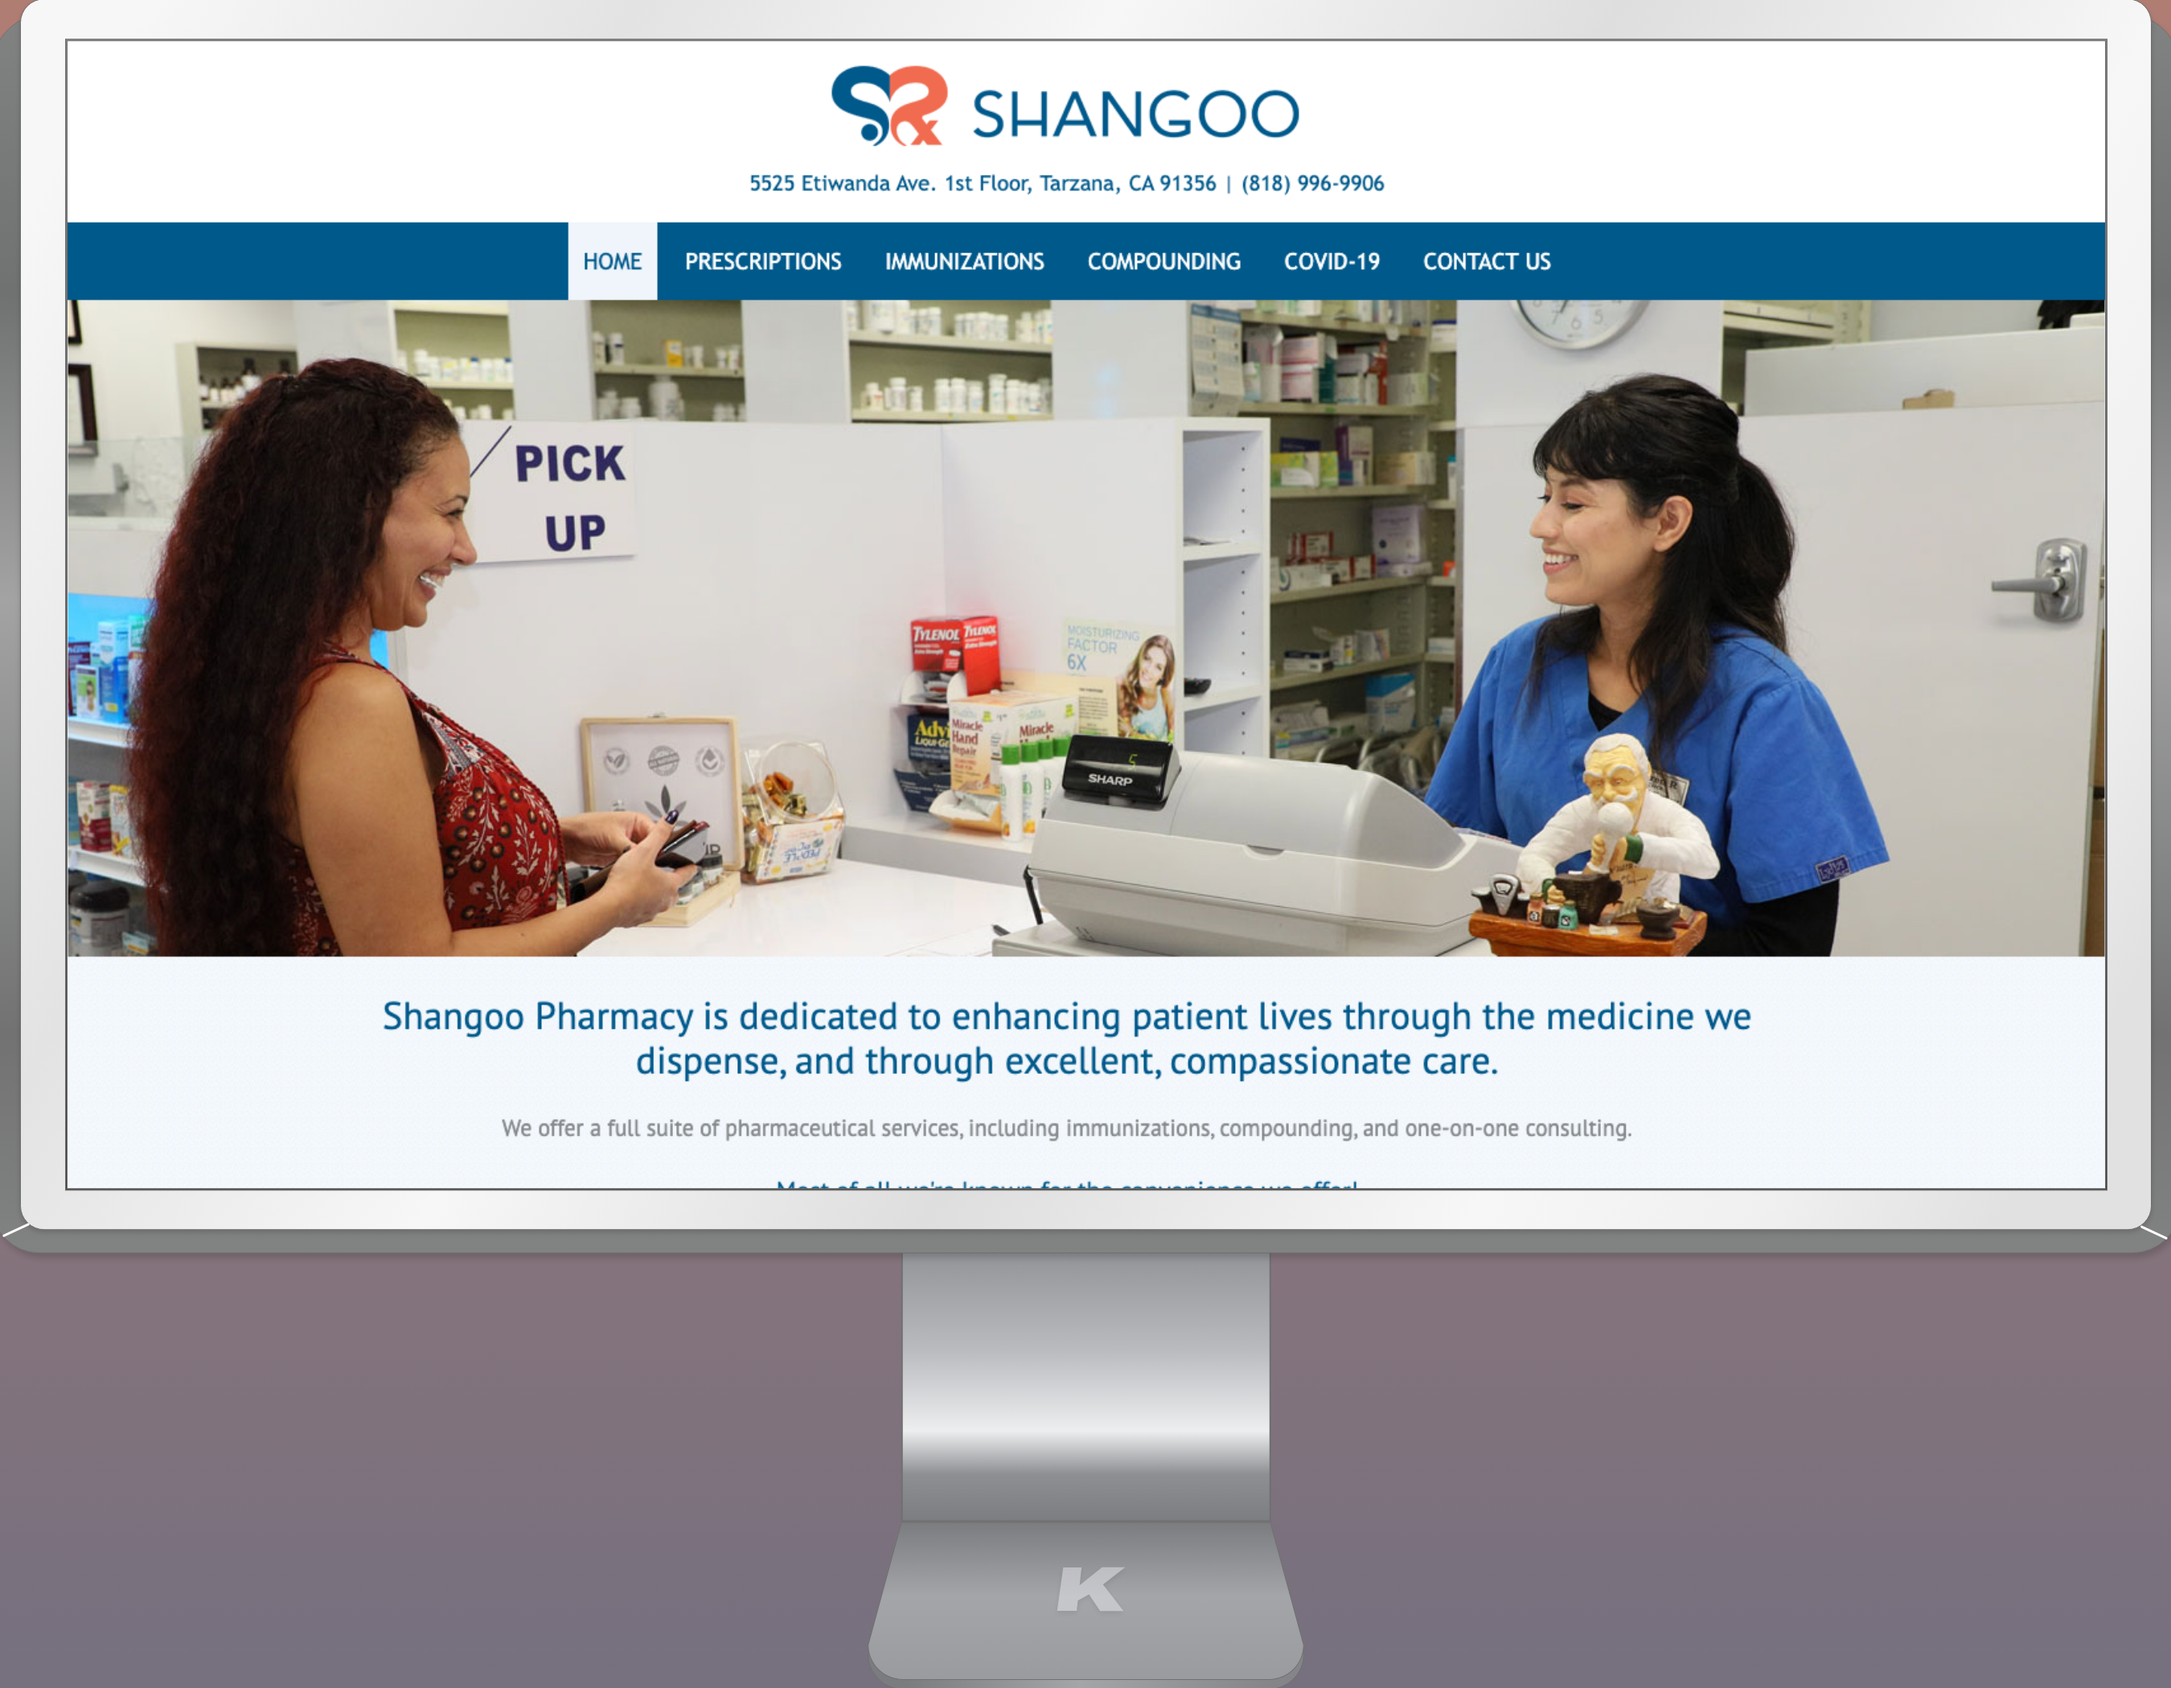
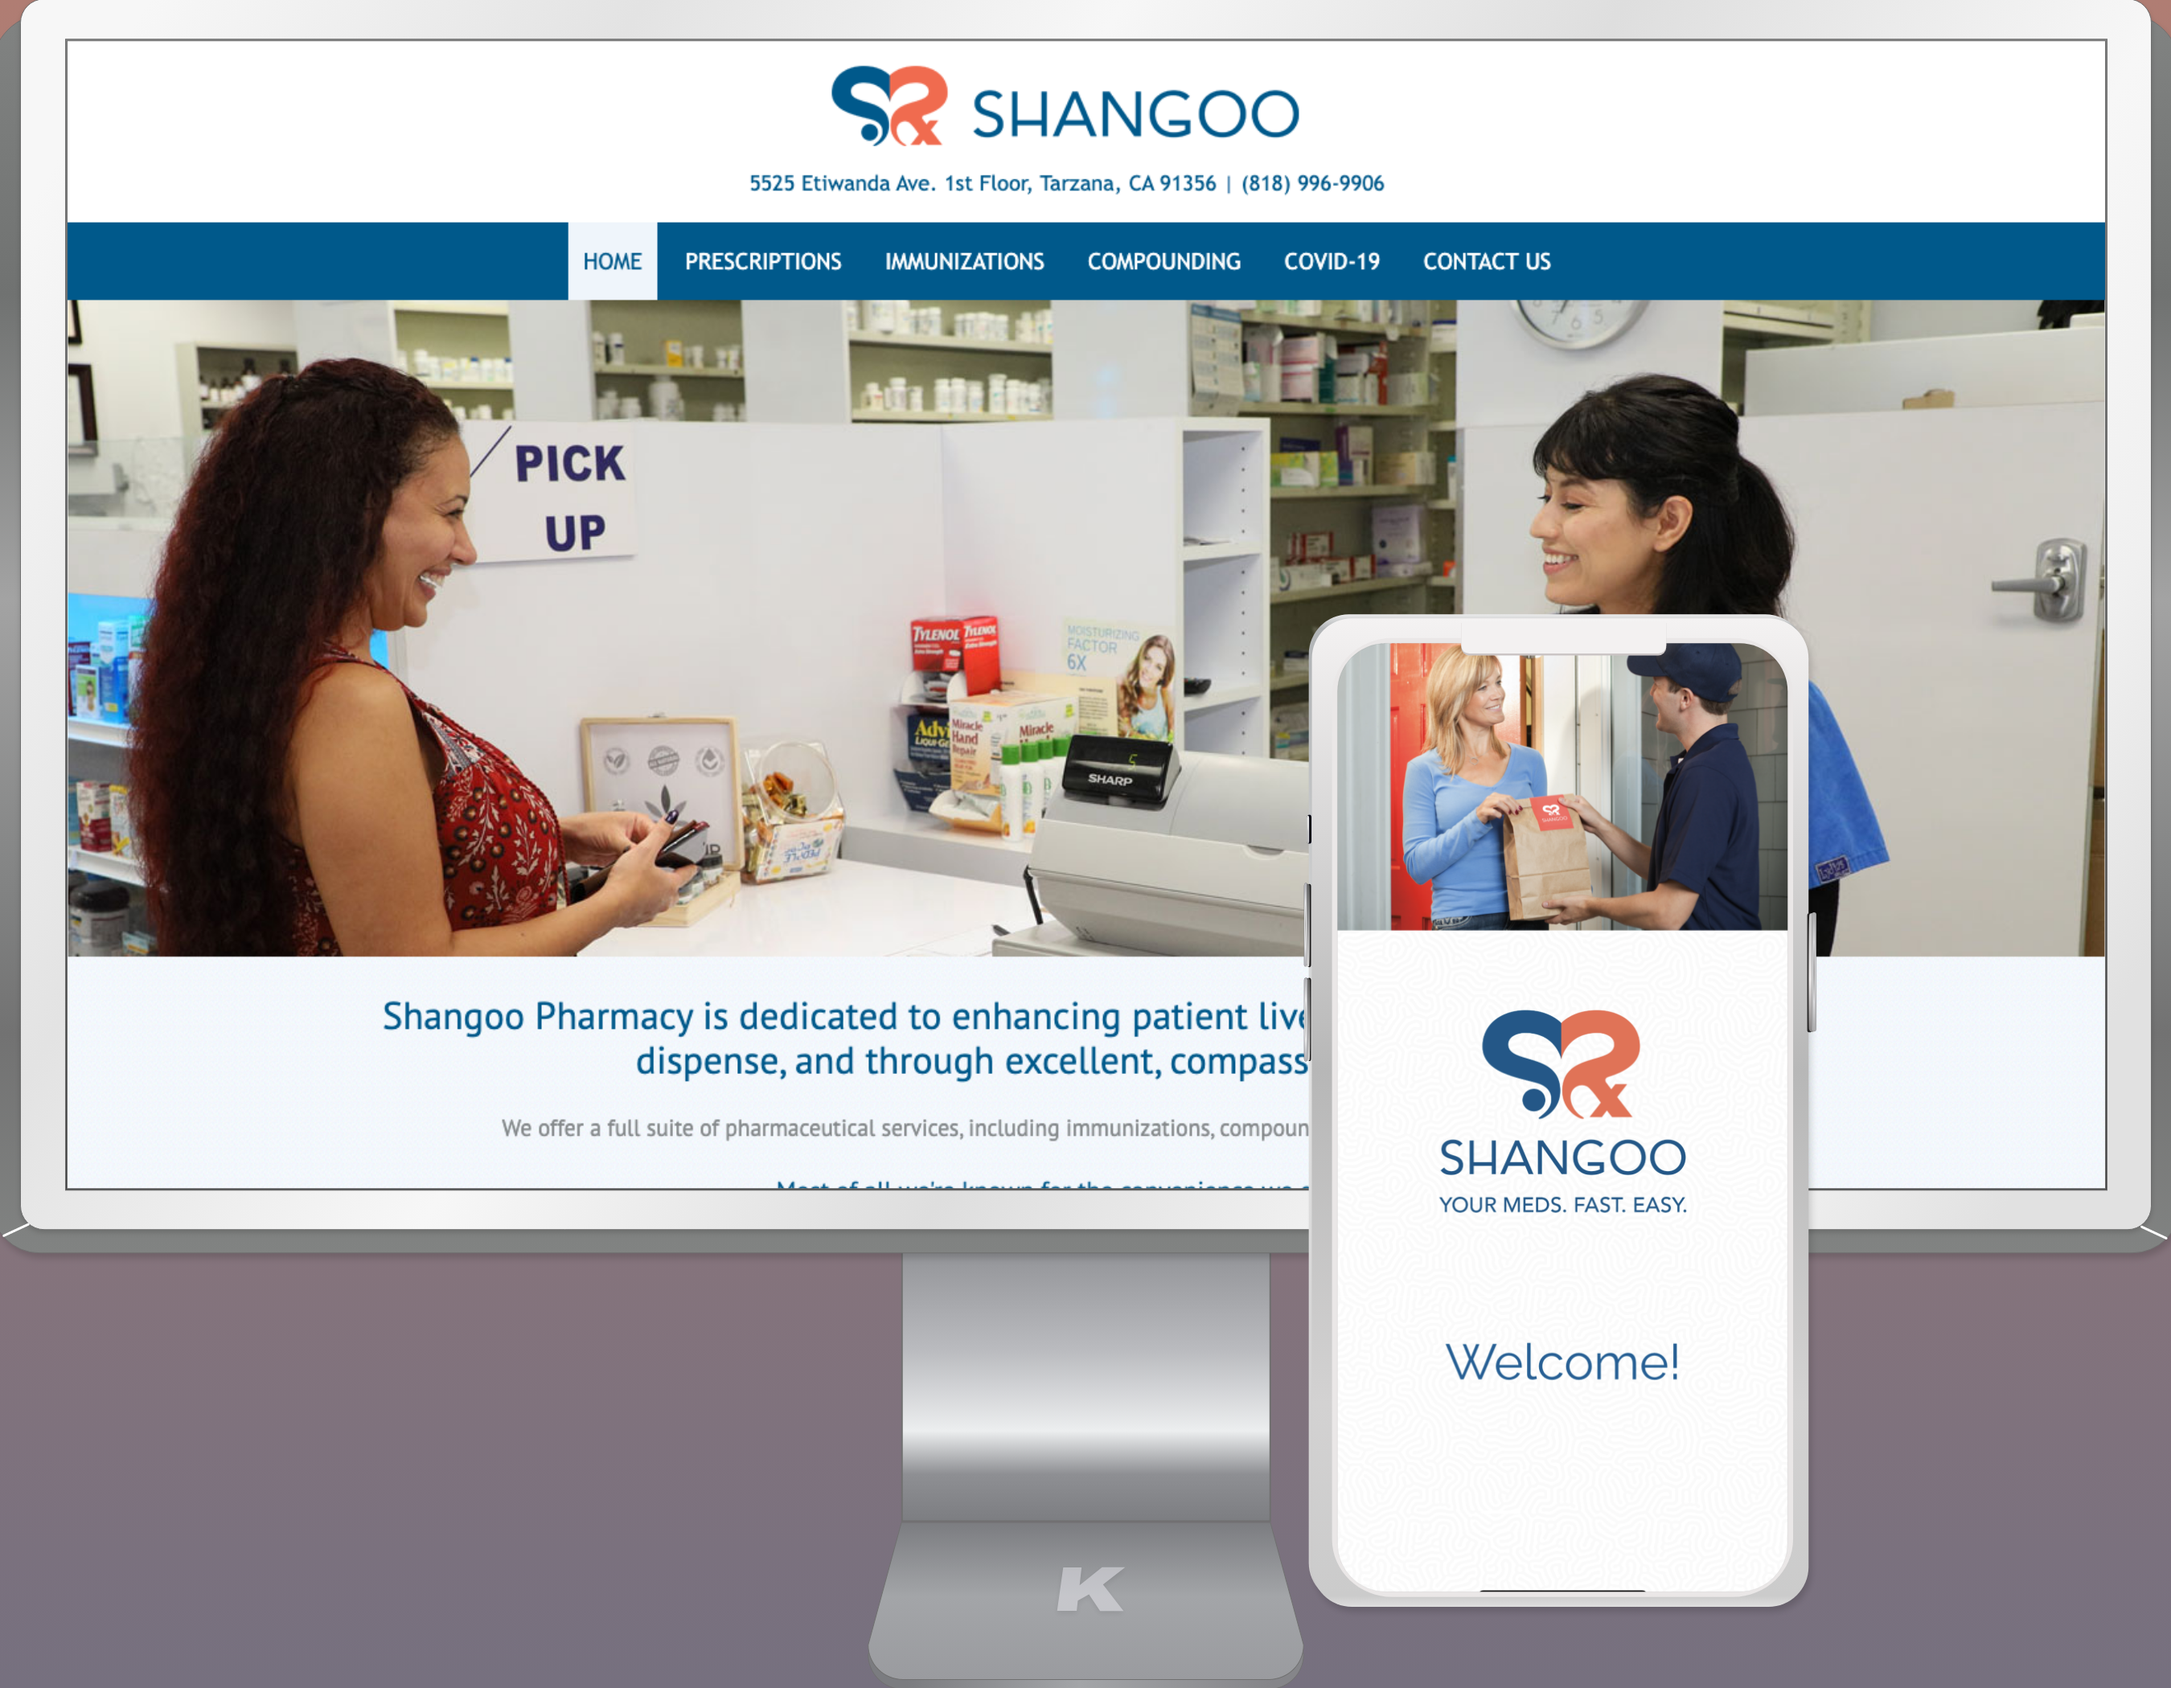
finished shangoo work section

Changed region(s): [[0.5911, 0.3405, 0.84, 0.9595]]

diff --git a/src/components/BlockButtonShangoo.js b/src/components/BlockButtonShangoo.js
@@ -27,6 +27,9 @@ import smiseScreens from '../assets/smise-screens-many.png'
 import smiseImagingTwo from '../assets/smise-imaging-2.png'
 
 import shangooDesktopHomeOne from '../assets/shangoo-desktop-home-2.png'
+import shangooOrderMeds from '../assets/shangoo-order-meds.png'
+import shangooRegisterAndContact from '../assets/shangoo-register-and-contact.png'
+import shangooThreeApps from '../assets/shangoo-3-apps.png'
 // import Button from 'react-bootstrap/Button'
 
 function BlockButtonShangoo() {
@@ -34,43 +37,43 @@ function BlockButtonShangoo() {
         {
             id: 1,
             img: `${shangooDesktopHomeOne}`,
-            description: 'Rx at Your Door'
+            description: 'Shangoo Desktop and Mobile App'
         },
         {
             id: 2,
-            img: `${shangooDesktopHomeOne}`,
-            description: 'Select A Tooth and Enter Real-time Patient Input'
+            img: `${shangooOrderMeds}`,
+            description: 'Get Your Prescribed or OTC Meds Delivered to You'
         },
         {
             id: 3,
-            img: `${smiseAddSymptomsFourScreens}`,
-            description: 'Add Symptoms to Your Dental Chart'
+            img: `${shangooRegisterAndContact}`,
+            description: 'Register for an Account and Get Customer Support'
         },
         {
             id: 4,
-            img: `${smiseVisualizeTooth}`,
-            description: 'Visualize Tooth Morphology'
+            img: `${shangooThreeApps}`,
+            description: '3 Native iOS and Andriod applications (for drivers, pharmacies, and patients)'
         },
-        {
-            id: 5,
-            img: `${smiseHidden}`,
-            description: 'Gather yearly comparisons of dental records which allow patients to track the progress of their dental health over time'
-        },
-        {
-            id: 6,
-            img: `${smiseNotes}`,
-            description: 'Refer to Simplified Clinical Notes Associated With a Tooth, Appointment Date, Provider, or Location'
-        },
-        {
-            id: 7,
-            img: `${smiseImaging}`,
-            description: 'Customized animated depiction of your true oral cavity in greater detail with more precise dental records'
-        },
-        {
-            id: 8,
-            img: `${smiseImagingTwo}`,
-            description: 'SMISE analyzes dental records, patient input, and treatment outcomes among patients to provide increasingly personal, accurate, and predictive recommendations'
-        }
+        // {
+        //     id: 5,
+        //     img: `${smiseHidden}`,
+        //     description: 'Gather yearly comparisons of dental records which allow patients to track the progress of their dental health over time'
+        // },
+        // {
+        //     id: 6,
+        //     img: `${smiseNotes}`,
+        //     description: 'Refer to Simplified Clinical Notes Associated With a Tooth, Appointment Date, Provider, or Location'
+        // },
+        // {
+        //     id: 7,
+        //     img: `${smiseImaging}`,
+        //     description: 'Customized animated depiction of your true oral cavity in greater detail with more precise dental records'
+        // },
+        // {
+        //     id: 8,
+        //     img: `${smiseImagingTwo}`,
+        //     description: 'SMISE analyzes dental records, patient input, and treatment outcomes among patients to provide increasingly personal, accurate, and predictive recommendations'
+        // }
     ]
     const [currentIndex, setCurrentIndex] = useState(0);
 
@@ -128,7 +131,7 @@ function BlockButtonShangoo() {
                     <div>
                         {/* <p style={{ textAlign: 'center', width: '300px', margin: '8px' }}>{image.description}</p> */}
                         <img id='zoom' key={image.id} src={image.img} style={{ display: index === currentIndex ? 'block' : 'none', width: '400px' }} ></img>
-                        <p key={image.id} style={{ display: index === currentIndex ? 'block' : 'none', textAlign: 'center', width: '300px', fontSize: '14px', marginLeft: '12%', marginTop: '35px', color: '#F76503' }}>{image.description}</p>
+                        <p key={image.id} style={{ display: index === currentIndex ? 'block' : 'none', textAlign: 'center', width: '300px', fontSize: '14px', marginLeft: '12%', marginTop: '35px', color: 'white' }}>{image.description}</p>
 
                     </div>
                 )}

diff --git a/src/components/Shangoo.js b/src/components/Shangoo.js
@@ -10,7 +10,13 @@ import homepage from '../assets/etiquette-homepage-fullscreen.png'
 import BlockButtonEtiquette from './BlockButtonEtiquette';
 // import etiquettLogo from '../assets/logo500.png'
 import smiseLogo from '../assets/smise-logo.png';
+
+import shangooLogo from '../assets/shangoo-logo.png'
 import BlockButtonShangoo from './BlockButtonShangoo';
+import appleStoreLogo from '../assets/apple-store-logo.png'
+import shangooDriverLogo from '../assets/shangoo-driver-logo.png'
+import shangooPharmacyLogo from '../assets/shangoo-pharmacy-logo.png'
+import shangooPatientLogo from '../assets/shangoo-patient-logo.png'
 // import smiseOpening from '../assets/smise-opening.png'
 
 
@@ -43,13 +49,23 @@ function Shangoo() {
 
                     </div>
                     <BlockButtonShangoo />
-                    <p style={{ top: '908px', left: '23.5%', fontSize: '16px', width: '120px', textAlign: 'center', position: 'absolute', zIndex: 5 }}>{item.description}</p>
-                    <p style={{ top: '716px', left: '31.3%', fontSize: '10px', width: '180px', textAlign: 'center', position: 'absolute', zIndex: 5 }}>{item.descriptionTwo}</p>
-                    <a href={item.link} target='_blank'><img src={smiseLogo} style={{ top: '718px', left: '49.4%', width: '70px', position: 'absolute', zIndex: 4, boxShadow: '0px 3px 6px #00000029', borderRadius: '50px', borderColor: '#EFEEF5' }} id='wiggle'></img></a>
+                    <p style={{ top: '908px', left: '23.5%', fontSize: '16px', width: '120px', textAlign: 'center', position: 'absolute', zIndex: 5, color: 'white' }}>{item.description}</p>
+                    <p style={{ top: '716px', left: '31.3%', fontSize: '10px', width: '180px', textAlign: 'center', position: 'absolute', zIndex: 5, color: 'white' }}>{item.descriptionTwo}</p>
+                    <a href={item.link} target='_blank'><img src={shangooLogo} style={{ top: '730px', left: '49.4%', width: '75px', position: 'absolute', zIndex: 4, boxShadow: '0px 3px 6px #00000029', borderRadius: '50px', borderColor: '#EFEEF5' }} id='wiggle'></img></a>
+
                     {/* <Link to='/smise-artboards'><img src={smiseLogo} style={{ top: '718px', left: '49.4%', width: '70px', position: 'absolute', zIndex: 4, boxShadow: '0px 3px 6px #00000029', borderRadius: '50px', borderColor: '#EFEEF5' }} id='wiggle'></img></Link> */}
                 </div>
+
                 // fix etiquette logo
             ))}
+            <div style={{ position: 'absolute', top: '900px' }}>
+                <a href='https://apps.apple.com/us/developer/shangoo-inc/id1489129176'><img src={appleStoreLogo} style={{ width: '20%' }} id='wiggle'></img></a>
+            </div>
+            <div style={{ position: 'absolute', top: '980px', width: '60%' }}>
+                <a href='https://apps.apple.com/us/app/shangoo-driver/id1574731742'><img src={shangooDriverLogo} style={{ width: '10%' }} id='wiggle'></img></a>
+                <a href='https://apps.apple.com/us/app/shangoo-pharmacy/id1489143836'><img src={shangooPharmacyLogo} style={{ width: '10%' }} id='wiggle'></img></a>
+                <a href='https://apps.apple.com/ca/app/shangoorx/id1534816834'><img src={shangooPatientLogo} style={{ width: '10%' }} id='wiggle'></img></a>
+            </div>
             {/* <div>
             {selectedId ? renderComponent() : 'No'}
         </div> */}
@@ -81,7 +97,7 @@ const itemData = [
         height: '310px',
         title: 'Shangoo',
         class: 'bubbleTopOrangeBlue',
-        color: '#DF7359',
+        color: '#EC6A4C',
         opacityBubbleOne: 1,
         opacityBubbleTwo: 0.91,
         fontSize: '20px',
@@ -92,8 +108,8 @@ const itemData = [
         marginTopSlogan: '30px',
         zIndex: 4,
         description: 'On-Demand Pharmacy Delivery',
-        descriptionTwo: `Working with a team of pharmacists, engineers, and designers on the front-end development, testing, and integration of a desktop and mobile application that delivers prescriptions on-demand`,
-        slogan: 'On-Demand Pharmacy Delivery'
+        descriptionTwo: `Working with a team of pharmacists, engineers, and designers on the front-end development, testing, and integration of a desktop and mobile application that delivers prescriptions and OTC items on-demand`,
+        slogan: 'Meds to You'
     },
 ]
 export default Shangoo

diff --git a/src/components/BlockButtonSmise.js b/src/components/BlockButtonSmise.js
@@ -52,7 +52,7 @@ function BlockButtonSmise() {
         {
             id: 5,
             img: `${smiseHidden}`,
-            description: 'Gather yearly comparisons of dental records which allow patients to track the progress of their dental health over time'
+            description: 'Gather yearly comparisons of dental records which allow patients to track the progress of their dental over time'
         },
         {
             id: 6,
